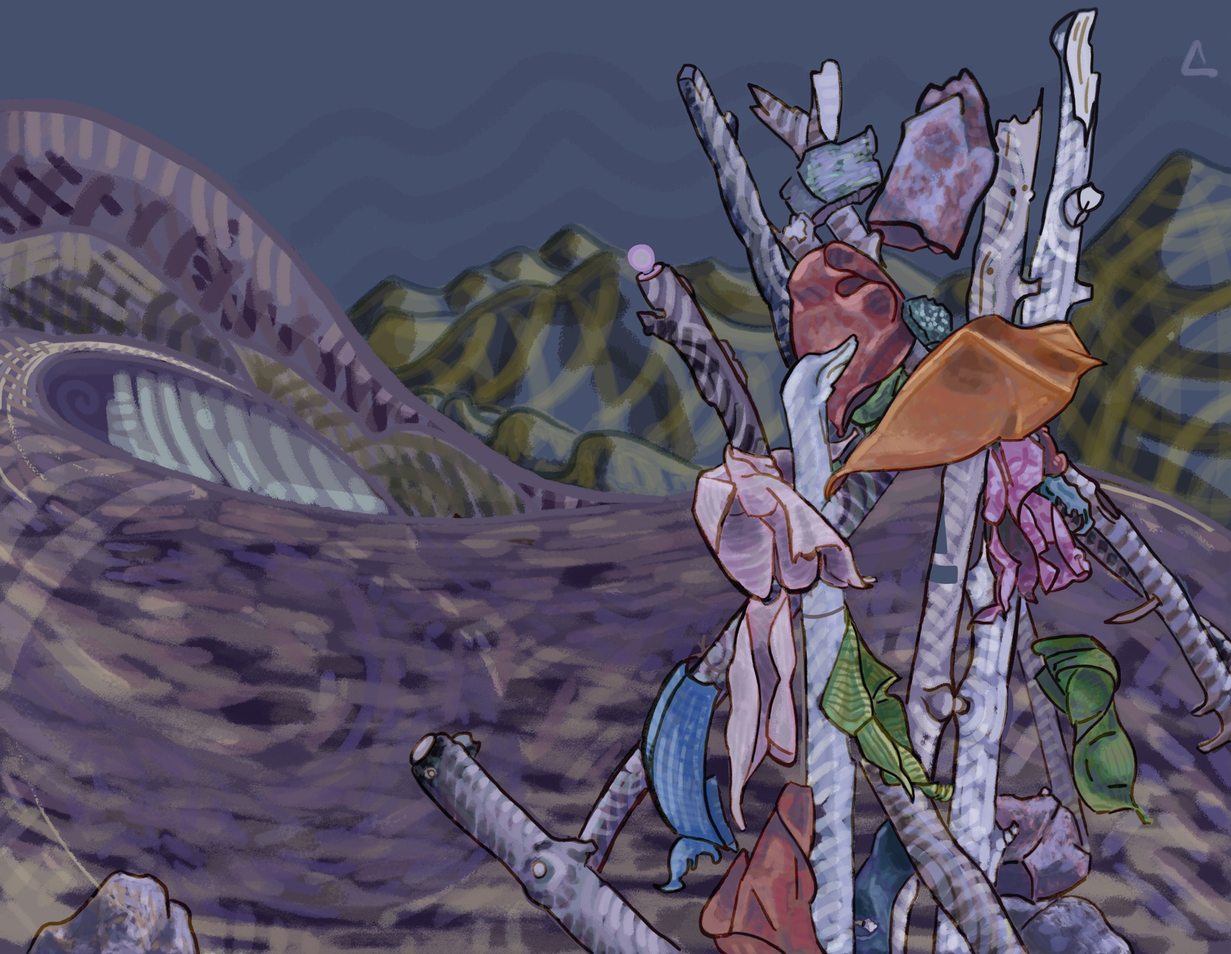
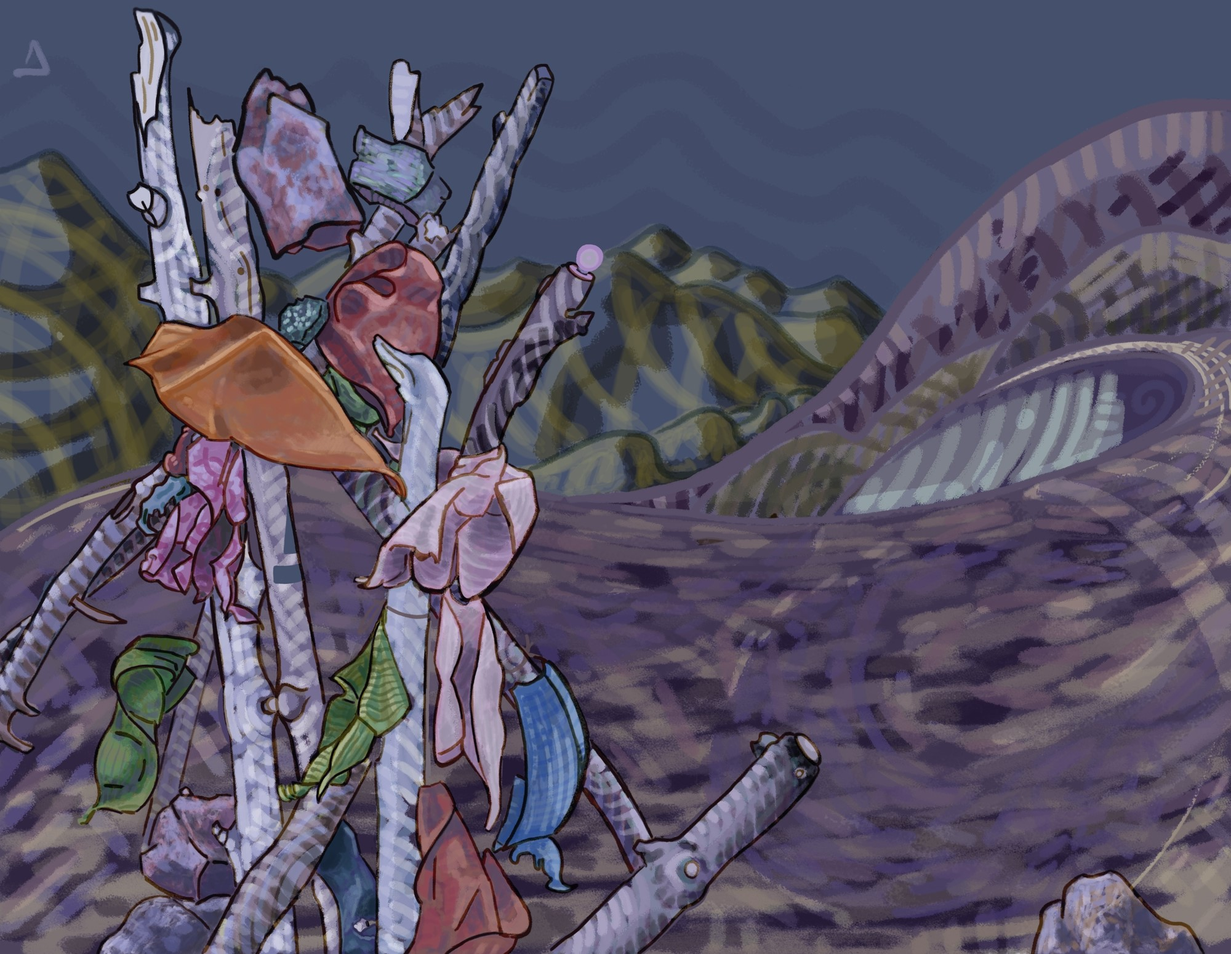
changed mobile layout and flipped picture

diff --git a/styles.css b/styles.css
@@ -56,6 +56,7 @@ h2 {
 
 header {
     display: flex;
+    flex-flow: column nowrap;
     width: 100%;
 }
 
@@ -110,17 +111,26 @@ footer {
 
 
 
-.img-intro-container {
-    width: 100vw;
-    height: 100vh;
-    background-image: url("banner_version1.jpg");
+header {
+    height: fit-content;
+    /* background-image: url("banner_version1.jpg"); */
     background-color: #45506c;
-    background-size: 100%;
-    background-position: right bottom;
+    /* background-size: 100%; */
+    /* background-position: right bottom; */
     /* border-bottom: #45506c .75em solid; */
     /* transition: all ease-in-out 500ms; */
     padding: 0em;
+    margin: 0;
     background-repeat: no-repeat;
+}
+
+.banner-img {
+    width: 100%;
+    height: auto;
+    max-height: 100vh;
+    object-fit: contain;
+    padding: 0;
+    margin: 0;
 }
 
 /* .img-intro-container:hover {
@@ -182,10 +192,10 @@ footer {
         background-image: url("portrait_color_long.jpg")
     } */
 
-    .img-intro-container {
+    /* .img-intro-container {
         background-image: url("banner_version2.jpg");
         background-size: 100% auto;
-    }
+    } */
 
     .img-nav {
         width: fit-content;
@@ -196,9 +206,9 @@ footer {
 @media (min-width: 750px) {
 
 
-    .img-intro-container {
+    /* .img-intro-container {
         padding: 0em 0em;
-    }
+    } */
 
     .img-nav {
         flex-flow: row nowrap;

diff --git a/index.html b/index.html
@@ -13,7 +13,7 @@
 </head>
     <body>
         <header>
-            <div class="img-intro-container">
+            <!-- <div class="img-intro-container"> -->
                 <div class="nav-container">
                     <nav class="img-nav">
                         <div class="button"><a href="#bio">About</a></div>
@@ -21,11 +21,13 @@
                         <div class="button"><a href="#contact">Contact</a></div>            
                     </nav>
                 </div>
+                <img class="banner-img" src="banner_version1.jpg">
                 <!-- <div class="header-title">
                     <h1 class="developer">Developer</h1>
                     <h1 class="designer">Designer</h1>
                     <h1 class="artist">Artist</h1>
                 </div> -->
+            <!-- </div> -->
         </header>
         <main>
             <div class="main-container">
